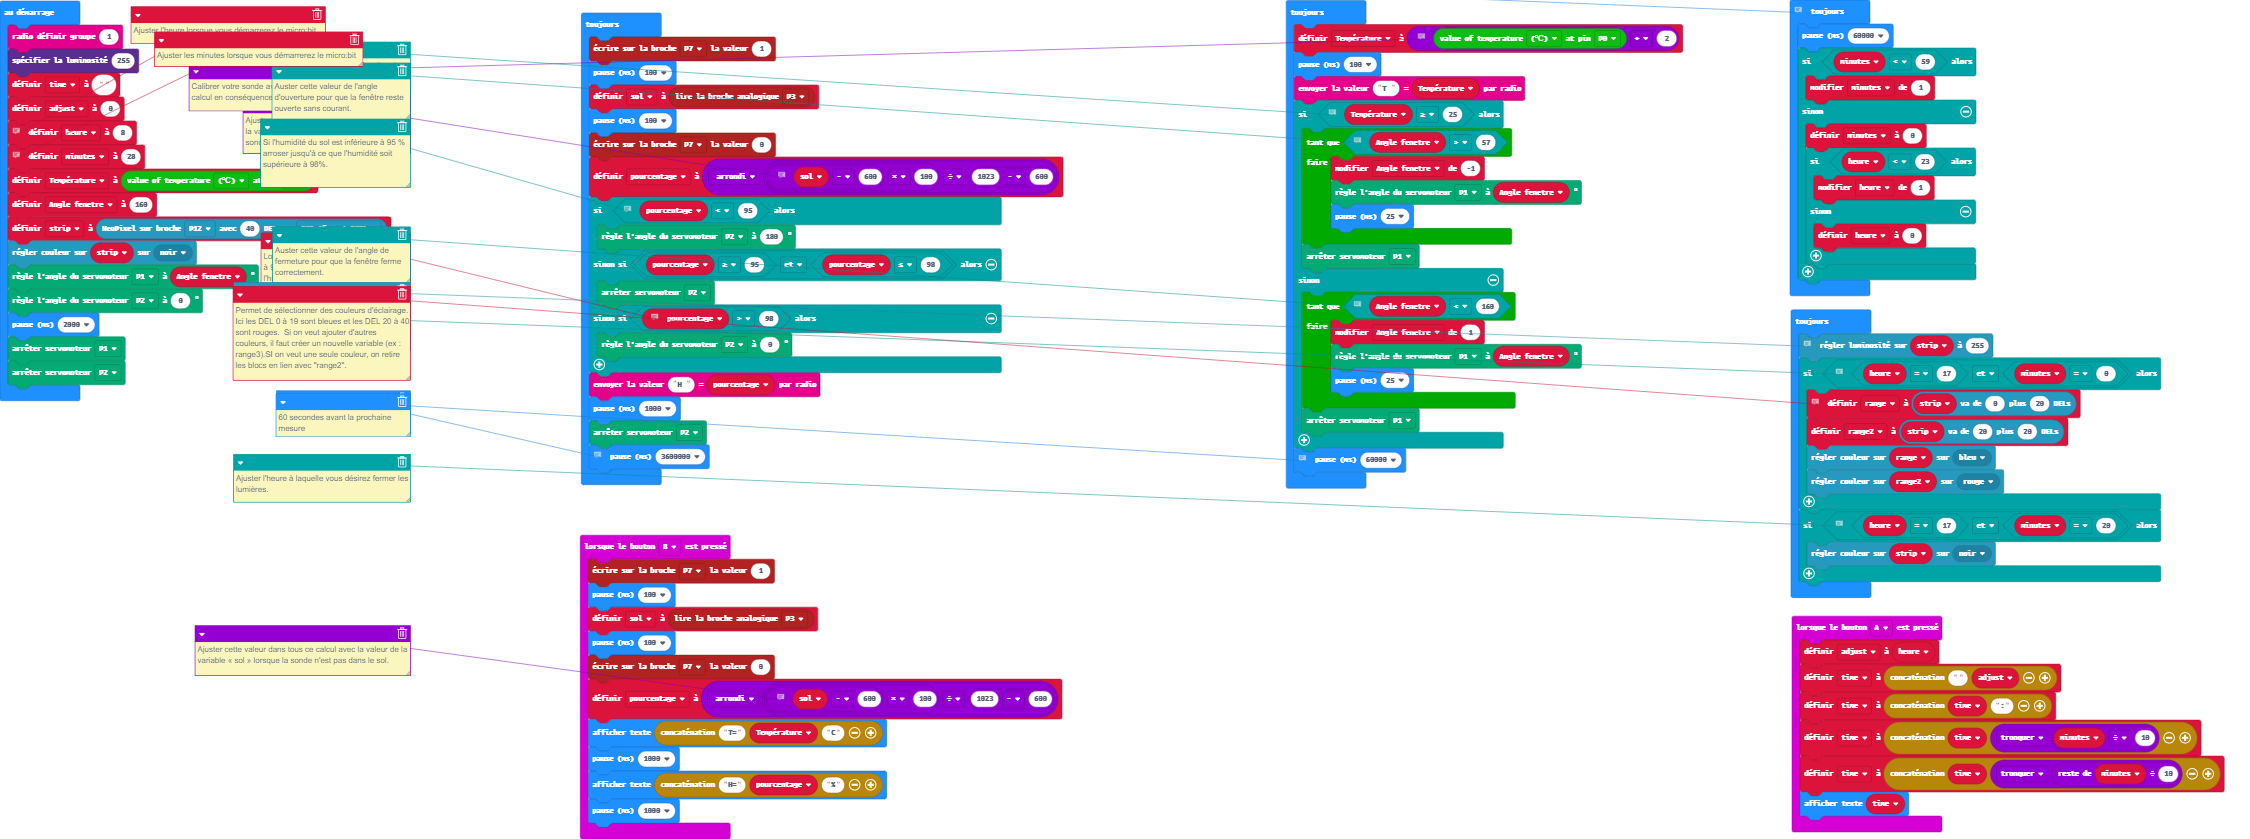
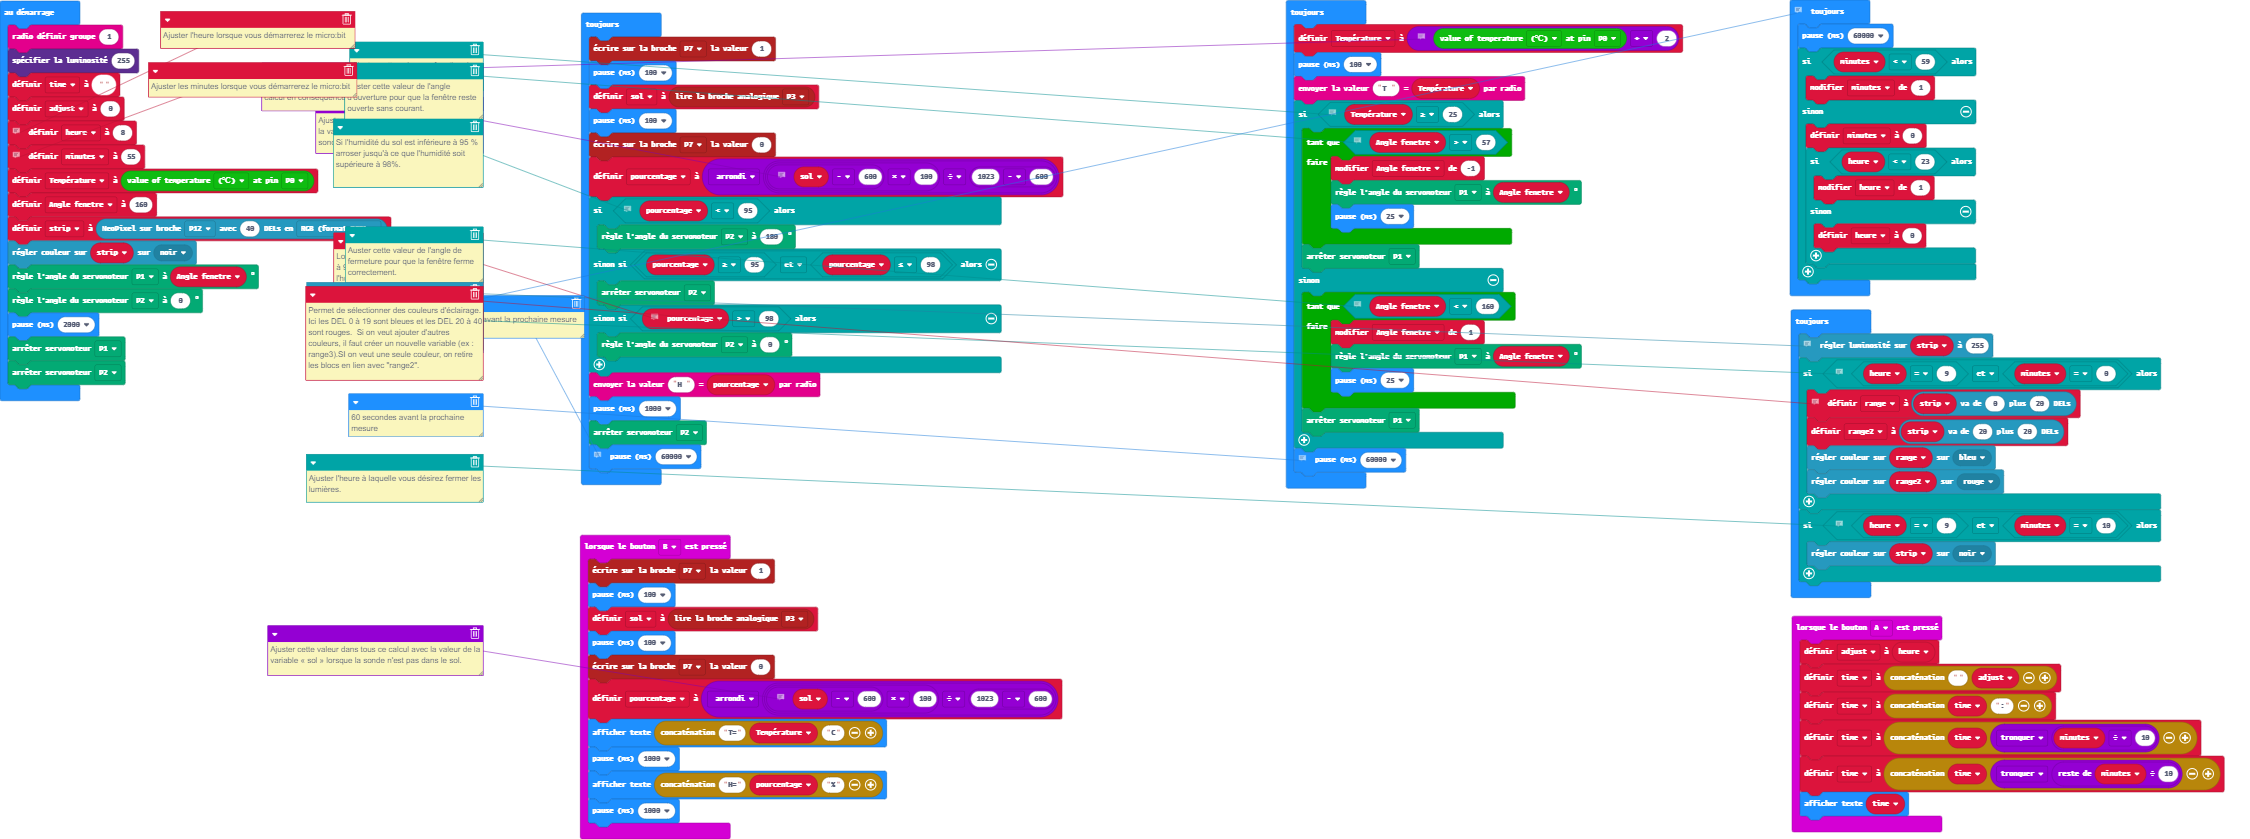
Mise à jour main.blocks, main.ts

diff --git a/main.ts b/main.ts
@@ -35,7 +35,7 @@ adjust = 0
 // Ajuster l'heure lorsque vous démarrerez le micro:bit
 heure = 8
 // Ajuster les minutes lorsque vous démarrerez le micro:bit
-minutes = 28
+minutes = 55
 Température = smarthome.ReadTemperature(TMP36Type.TMP36_temperature_C, AnalogPin.P0)
 let Angle_fenetre = 160
 let strip = neopixel.create(DigitalPin.P12, 40, NeoPixelMode.RGB)
@@ -66,7 +66,7 @@ basic.forever(function () {
     basic.pause(1000)
     servos.P2.stop()
     // 1 heure avant la prochaine mesure
-    basic.pause(3600000)
+    basic.pause(60000)
 })
 basic.forever(function () {
     // Calibrer votre sonde avec un autre thermomètre et ajuster le calcul en conséquence.
@@ -112,7 +112,7 @@ basic.forever(function () {
     // Permet d'ajuster l'intensité lumineuse des DEL
     strip.setBrightness(255)
     // Ajuster l'heure à laquelle vous désirez ouvrir les lumières.
-    if (heure == 17 && minutes == 0) {
+    if (heure == 9 && minutes == 0) {
         // Permet de sélectionner des couleurs d'éclairage.  Ici les DEL 0 à 19 sont bleues et les DEL 20 à 40 sont rouges.  Si on veut ajouter d'autres couleurs, il faut créer un nouvelle variable (ex : range3).SI on veut une seule couleur, on retire les blocs en lien avec "range2".
         range = strip.range(0, 20)
         range2 = strip.range(20, 20)
@@ -120,7 +120,7 @@ basic.forever(function () {
         range2.showColor(neopixel.colors(NeoPixelColors.Red))
     }
     // Ajuster l'heure à laquelle vous désirez fermer les lumières.
-    if (heure == 17 && minutes == 20) {
+    if (heure == 9 && minutes == 10) {
         strip.showColor(neopixel.colors(NeoPixelColors.Black))
     }
 })
